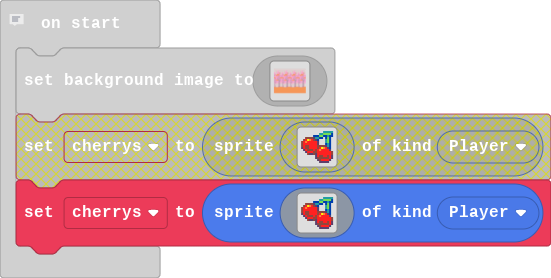
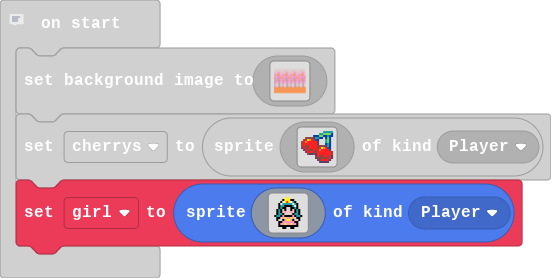
added another sprite as main character

Changed region(s): [[0.0, 0.4029, 1.0, 0.8921]]

diff --git a/main.ts b/main.ts
@@ -139,3 +139,21 @@ let cherrys = sprites.create(img`
     . . . . . . . . c e 2 2 2 2 c . 
     . . . . . . . . . c c c c c . . 
     `, SpriteKind.Player)
+let girl = sprites.create(img`
+    . . . . . . 5 . 5 . . . . . . . 
+    . . . . . f 5 5 5 f f . . . . . 
+    . . . . f 1 5 2 5 1 6 f . . . . 
+    . . . f 1 6 6 6 6 6 1 6 f . . . 
+    . . . f 6 6 f f f f 6 1 f . . . 
+    . . . f 6 f f d d f f 6 f . . . 
+    . . f 6 f d f d d f d f 6 f . . 
+    . . f 6 f d 3 d d 3 d f 6 f . . 
+    . . f 6 6 f d d d d f 6 6 f . . 
+    . f 6 6 f 3 f f f f 3 f 6 6 f . 
+    . . f f d 3 5 3 3 5 3 d f f . . 
+    . . f d d f 3 5 5 3 f d d f . . 
+    . . . f f 3 3 3 3 3 3 f f . . . 
+    . . . f 3 3 5 3 3 5 3 3 f . . . 
+    . . . f f f f f f f f f f . . . 
+    . . . . . f f . . f f . . . . . 
+    `, SpriteKind.Player)
